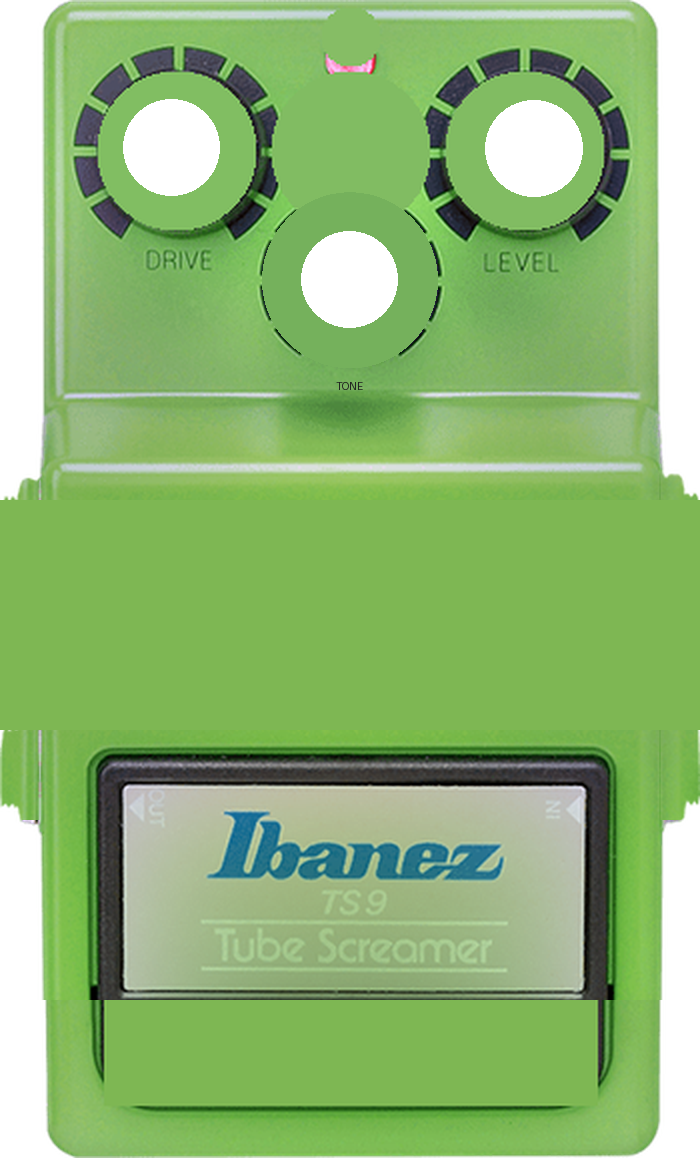
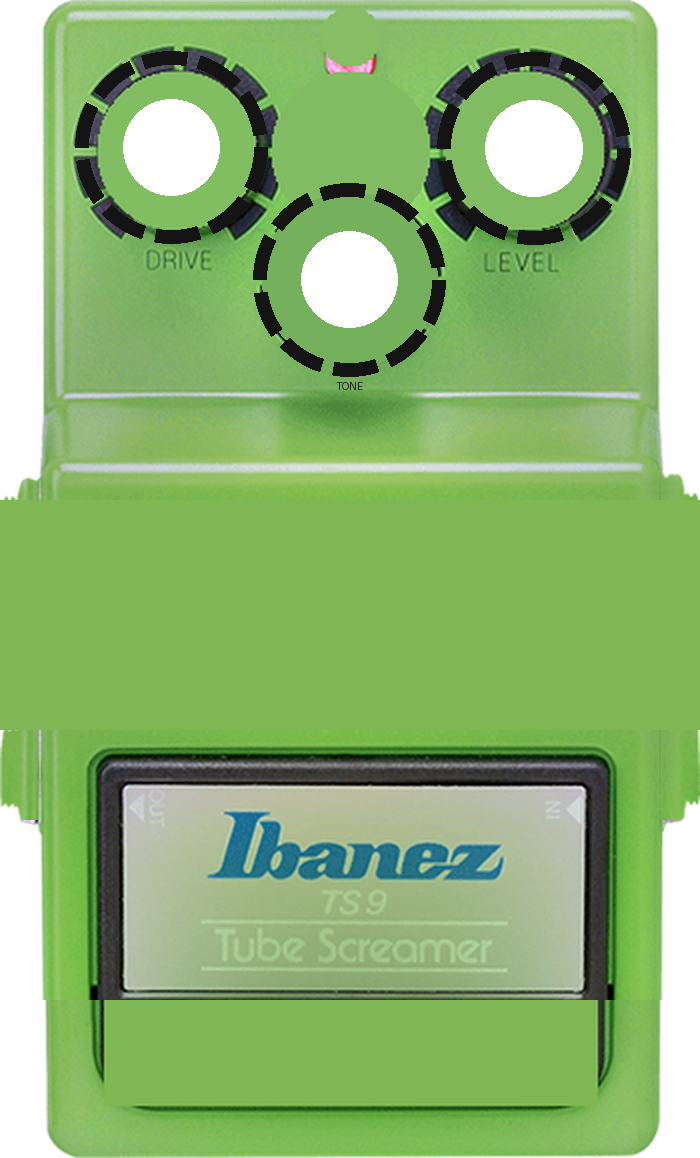
TS9: revert knob to 0.66in (overlay proves 0.34in was wrong). Tick rings larger (0.80in, thick segments). Add 2D projection validator.

diff --git a/parts.js b/parts.js
@@ -179,15 +179,15 @@ export function knob(style = 'ts9', pointerRot = 0) {
     const pg = new THREE.Group(); pg.add(pointer); pg.rotation.y = pointerRot;
     k.add(body, top, pg);
   } else { // 'ts9'
-    // Measured from Sweetwater top view: knob body ~0.34" diameter (0.17" radius),
-    // ~0.65" tall. Davies-style. Marker rings are 0.56" diameter, OUTSIDE the knob.
-    // Previous model was 2x too big (0.66" dia), covering the decal markers.
-    const skirt = shadowed(new THREE.Mesh(new THREE.CylinderGeometry(0.155, 0.175, 0.60, 32), FIN.knobRib));
+    // Davies-style TS9 knobs. Overlay vs Sweetwater photo shows the original
+    // 0.66" diameter is correct (the 0.34" "fix" was based on a bad measurement).
+    // Tick rings in decal are sized to sit OUTSIDE the knob (0.70" dia).
+    const skirt = shadowed(new THREE.Mesh(new THREE.CylinderGeometry(0.295, 0.33, 0.60, 48), FIN.knobRib));
     skirt.position.y = 0.30;
-    const cap = shadowed(new THREE.Mesh(new THREE.CylinderGeometry(0.125, 0.125, 0.05, 32), FIN.silverCap));
+    const cap = shadowed(new THREE.Mesh(new THREE.CylinderGeometry(0.24, 0.24, 0.05, 48), FIN.silverCap));
     cap.position.y = 0.625;
-    const pointer = new THREE.Mesh(new THREE.BoxGeometry(0.025, 0.012, 0.11), FIN.pointer);
-    pointer.position.set(0, 0.652, -0.03);
+    const pointer = new THREE.Mesh(new THREE.BoxGeometry(0.035, 0.014, 0.19), FIN.pointer);
+    pointer.position.set(0, 0.652, -0.055);
     const pg = new THREE.Group(); pg.add(pointer); pg.rotation.y = pointerRot;
     k.add(skirt, cap, pg);
   }

diff --git a/tools/render_validate_ts9.py b/tools/render_validate_ts9.py
@@ -1,0 +1,147 @@
+#!/usr/bin/env python3
+"""
+2D projection validator for TS9.
+Renders the parametric spec as orthographic top/side views and overlays
+on reference photos. No browser, no AI needed.
+
+Usage: python3 tools/render_validate_ts9.py [--write-preview]
+"""
+import json, math
+from PIL import Image, ImageDraw
+import numpy as np
+
+SPEC = 'specs/ts9.json'
+SIDE_PHOTO = '/home/hatch/workspace/user/media_library/image/57/57ccfa5b5018878a1eb8243c8c5c2d311db55cc3dae415c8e0faceba40824819.png'
+TOP_PHOTO = '/tmp/ts9_top_ref.jpg'
+
+def load_spec():
+    with open(SPEC) as f:
+        return json.load(f)
+
+def render_top_view(spec, scale=200):
+    """Orthographic top view: x (width) horizontal, z (depth) vertical.
+    Returns PIL image with pedal outline, knobs, footswitch, LED."""
+    W, D = spec['dims']['w'], spec['dims']['d']
+    w_px, h_px = int(W*scale), int(D*scale)
+    img = Image.new('RGB', (w_px+40, h_px+40), (255,255,255))
+    d = ImageDraw.Draw(img)
+    ox, oy = 20, 20
+    
+    def px(x, z):
+        return ox + (x + W/2)*scale, oy + (z + D/2)*scale
+    
+    # Pedal outline (rectangle)
+    d.rectangle([px(-W/2, -D/2), px(W/2, D/2)], outline=(0,0,0), width=2, fill=(45,140,60))
+    
+    # Knobs (circles)
+    for k in spec.get('knobs', []):
+        cx, cy = px(k['x'], k['z'])
+        r = 0.175*scale  # measured knob radius
+        d.ellipse([cx-r, cy-r, cx+r, cy+r], fill=(30,30,30), outline=(0,0,0))
+        # Tick ring
+        r2 = 0.28*scale
+        for i in range(10):
+            a0 = math.radians(i*36)
+            a1 = math.radians(i*36+24)
+            d.arc([cx-r2, cy-r2, cx+r2, cy+r2], start=math.degrees(a0), end=math.degrees(a1), fill=(0,0,0), width=3)
+        # Label
+        lx, ly = px(k['x'], k['z']+0.45)
+        d.text((lx, ly), k['id'].upper(), fill=(0,0,0), anchor='mm')
+    
+    # Footswitch
+    fs = spec.get('footswitch', {})
+    if fs:
+        cx, cy = px(fs.get('x', 0), fs.get('z', 1.5))
+        r = 0.3*scale
+        d.ellipse([cx-r, cy-r, cx+r, cy+r], fill=(40,40,40))
+    
+    # LED
+    led = spec.get('led', {})
+    if led:
+        cx, cy = px(led.get('x', 0), led.get('z', -2.0))
+        r = 0.1*scale
+        d.ellipse([cx-r, cy-r, cx+r, cy+r], fill=(255,0,0))
+    
+    return img
+
+def render_side_view(spec, scale=150):
+    """Orthographic side view: z (depth) horizontal, y (height) vertical."""
+    D, H = spec['dims']['d'], spec['dims']['h']
+    pts = spec['enclosure']['points']
+    w_px = int(D*scale)+40
+    h_px = int(H*scale)+40
+    img = Image.new('RGB', (w_px, h_px), (255,255,255))
+    d = ImageDraw.Draw(img)
+    ox, oy = 20, 20
+    
+    def px(z, y):
+        return ox + (z + D/2)*scale, oy + (H - y)*scale
+    
+    # Profile polygon (top edge + bottom)
+    poly = [px(z, y) for z, y in pts]
+    poly.append(px(D/2, 0))
+    poly.append(px(-D/2, 0))
+    d.polygon(poly, outline=(0,0,0), fill=(45,140,60))
+    
+    # Knobs (as rectangles on the deck)
+    for k in spec.get('knobs', []):
+        # Find deck height at knob z
+        y_deck = None
+        for i in range(len(pts)-1):
+            z0, y0 = pts[i]
+            z1, y1 = pts[i+1]
+            if min(z0,z1) <= k['z'] <= max(z0,z1):
+                t = (k['z']-z0)/(z1-z0) if z1!=z0 else 0
+                y_deck = y0 + t*(y1-y0)
+                break
+        if y_deck is None:
+            continue
+        recess = k.get('recess', 0)
+        y_base = y_deck - recess
+        y_top = y_base + 0.65
+        cx, _ = px(k['z'], 0)
+        w = 0.175*scale
+        x0, y0p = px(k['z'], y_top)
+        x1, y1p = px(k['z'], y_base)
+        d.rectangle([cx-w, y0p, cx+w, y1p], fill=(30,30,30), outline=(0,0,0))
+    
+    return img
+
+def overlay_on_photo(rendered, photo_path, photo_bbox):
+    """Overlay rendered image on photo at given bbox. Returns combined image and IoU-like score."""
+    photo = Image.open(photo_path).convert('RGB')
+    # Resize rendered to fit bbox
+    x0, y0, x1, y1 = photo_bbox
+    rw, rh = x1-x0, y1-y0
+    rend_resized = rendered.resize((rw, rh))
+    photo = photo.copy()
+    # Blend: 50% opacity overlay
+    overlay = Image.new('RGB', photo.size, (255,255,255))
+    overlay.paste(rend_resized, (x0, y0))
+    combined = Image.blend(photo, overlay, 0.5)
+    return combined
+
+if __name__ == '__main__':
+    import sys
+    spec = load_spec()
+    
+    # Render views
+    top = render_top_view(spec)
+    side = render_side_view(spec)
+    
+    # Save previews
+    top.save('/tmp/ts9_top_render.png')
+    side.save('/tmp/ts9_side_render.png')
+    print("Saved /tmp/ts9_top_render.png and /tmp/ts9_side_render.png")
+    
+    # Overlay on photos
+    # Top photo: pedal bounds from earlier measurement (x=107-1658, y=10-2901)
+    top_combined = overlay_on_photo(top, TOP_PHOTO, (107, 10, 1658, 2901))
+    top_combined.save('/tmp/ts9_top_overlay.png')
+    
+    # Side photo: pedal bounds (x=2-746, y=15-306)
+    side_combined = overlay_on_photo(side, SIDE_PHOTO, (2, 15, 746, 306))
+    side_combined.save('/tmp/ts9_side_overlay.png')
+    
+    print("Saved overlays to /tmp/ts9_top_overlay.png and /tmp/ts9_side_overlay.png")
+    print("\nOpen these to visually verify alignment.")
